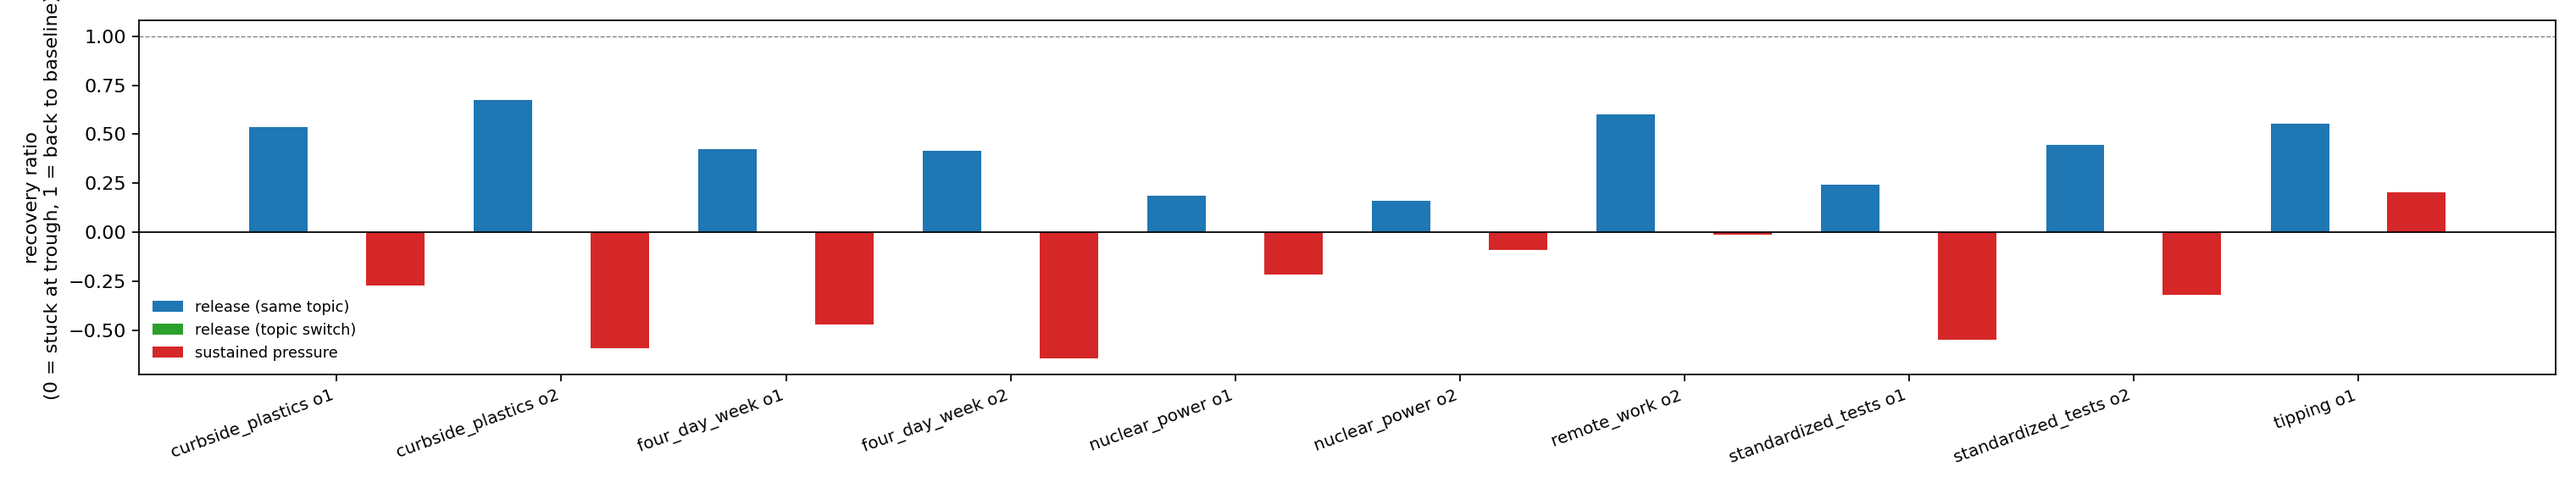
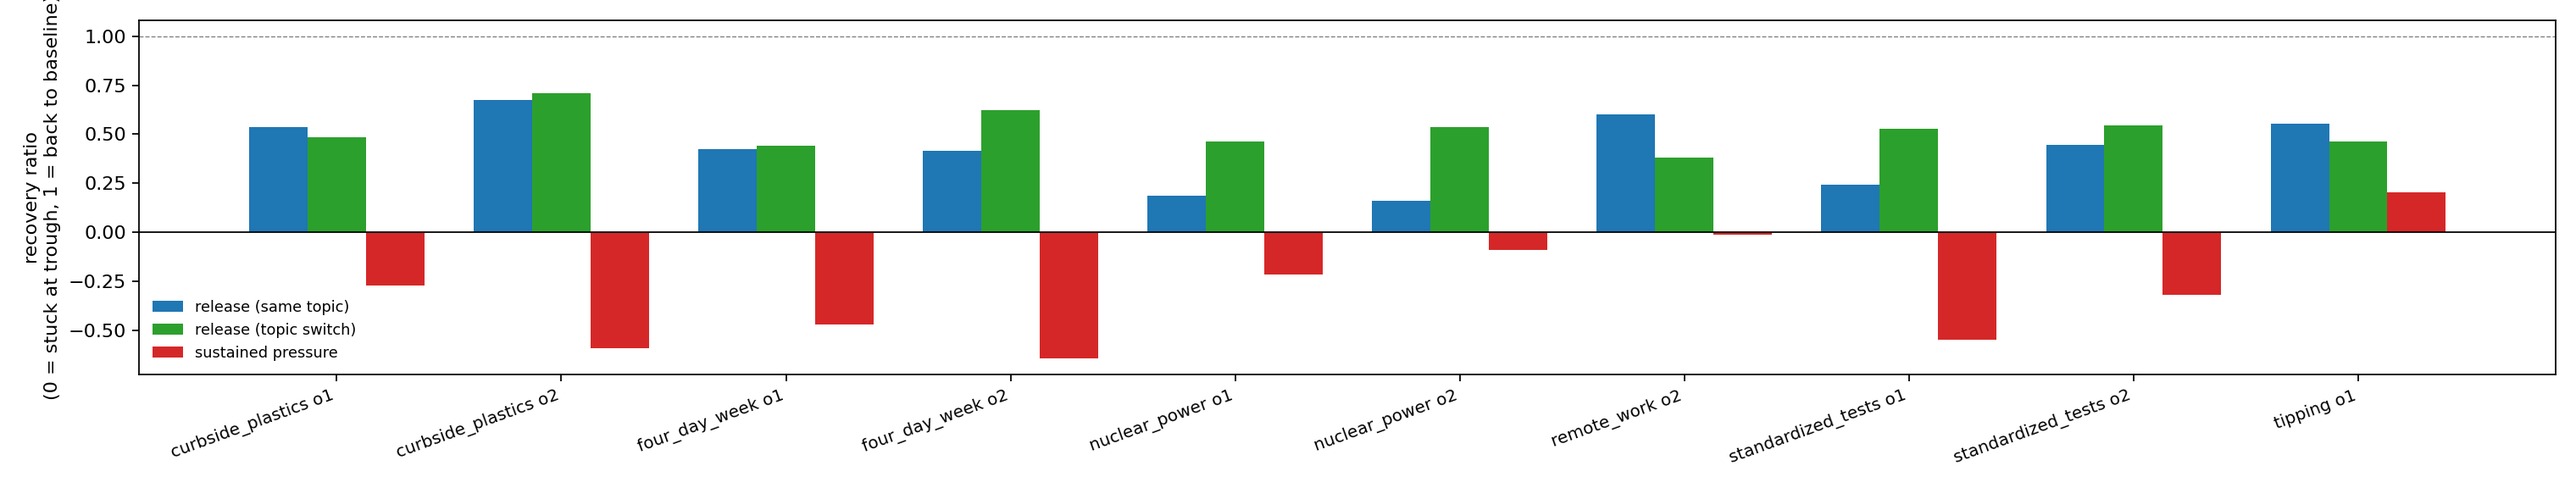
replication complete, 60 conversations: three of the paper's claims survive and the four-way arm ordering does not. It fails 3/10 and only on switch<release, the one link the old check never evaluated -- the two links it did evaluate are 10/10 each. The failing link is reversed: switch ends above re

diff --git a/runs/repl_b1/FINDINGS.md b/runs/repl_b1/FINDINGS.md
@@ -1,40 +1,83 @@
-# repl_b1 — replication, batch 1
+# repl_b1 — replication of the original result
 
 Llama-3.1-8B-Instruct on a Colab A100. `topics_replication.json`, six topics,
-three arms (`neutral`, `pressure_release`, `pressure_sustained`), both option
-orders, `--flip-rule both`. 36 conversations, 12 (topic, order) cells.
-Analysed with the `analyze.py` fixed in the same session (HANDOFF §10).
+all five arms, both option orders, `--flip-rule both`. **60 conversations, 12
+(topic, order) cells, complete.** Run in two batches into one directory
+(3 arms, then the two switch arms); analysed with the `analyze.py` fixed in
+the same session (HANDOFF §10).
 
-**What this batch is for.** The original result was measured with the probe
-that read logits at a token the model never writes; in-conversation probe mass
-had a median of 0.007. Every number in the paper is a renormalisation of that.
-This re-measures the claims the three arms can reach, before any new question
-is asked.
+**What this is for.** The original result was measured with the probe that
+read logits at a token the model never writes; in-conversation probe mass had
+a median of 0.007. Every number in the paper is a renormalisation of that.
+This re-measures the claims, with the instrument fixed.
+
+**Headline: three of the paper's claims survive, one does not — and the one
+that fails is the relation the paper's own check never tested.**
 
 ---
 
-## 1. The arm ordering replicates: 10/10
+## 1. The arm ordering: the four-way chain fails, 3/10
 
 ```
-ordering holds in 10/10 cells (0 within 0.01 of a tie)
-margins +0.11 .. +0.35
+chain tested: sustain < switch < release < neutral
+ordering holds in 3/10 cells (1 within 0.01 of a tie)
 ```
 
-Both option orders of every topic agree. Two cells are absent because they
-never flipped (§4), and the ordering is only defined where pressure moved the
-stance.
+Decomposed into its three links, over the ten cells where pressure moved the
+stance:
 
-**What may NOT be said yet.** The paper claims a FOUR-term ordering,
-`sustained < switch < release < neutral`. This batch has no switch arm, so it
-tested two of the three relations. `analyze.py` prints `chain tested: sustain
-< release < neutral` for exactly this reason. Asserting the four-way claim on
-this batch would repeat PITFALLS #16, which was written from this project's
-own version of that mistake.
+| link | holds |
+|---|---|
+| `sustained < switch` | **10/10** |
+| `switch < release` | **3/10** |
+| `release < neutral` | **10/10** |
 
-## 2. Stopping helps, and nothing returns
+Sustained pressure ends lowest everywhere, and every pressure arm ends below
+the no-pressure control everywhere. **The failure is confined to one link, and
+it is the link `analyze.py`'s original check never evaluated** -- it tested
+`sustained < release < neutral`, two comparisons for a claim that makes three
+(PITFALLS #16, written from this project's own instance of the mistake). The
+untested relation is the one that does not hold.
 
-Both halves replicate, and the second one is now read against a defensible
-reference.
+## 2. The failing link is reversed, not noisy
+
+`pressure_switch` ends ABOVE `pressure_release` in 7 of 10 flipped cells, and
+two of the three that "hold" do so by 0.02 and 0.05. The paper has it the
+other way: releasing pressure while the topic leaves the context was reported
+as recovering LESS than staying on topic.
+
+**The obvious confound is ruled out by the control that exists for it.** If
+taking the topic out of context simply pushes the probe up, the difference is
+an artefact rather than recovery. `neutral_switch` measures exactly that, with
+no pressure anywhere:
+
+```
+no pressure,  switch - same topic:   median -0.031,  3/12 positive
+under pressure, switch - same topic: median +0.010,  7/12 positive
+```
+
+With no pressure, removing the topic moves the reading slightly DOWN -- the
+opposite of the artefact hypothesis. Difference-in-differences per cell,
+subtracting each cell's own no-pressure context effect:
+
+```
+DiD  median +0.069   10/12 cells positive   range -0.06 .. +0.27
+by topic (two orders averaged): nuclear_power +0.26, standardized_tests +0.08,
+  four_day_week +0.06, tipping +0.05, curbside_plastics +0.03, remote_work -0.02
+```
+
+**How far this can be pushed: not far.** `nuclear_power` is four times the
+next topic and carries most of the median; drop it and the effect is ~0.05.
+The unit is the topic, not the cell -- the two orders of one topic are not two
+samples -- so the test is 5 of 6 topics positive, sign test **p = 0.11**.
+Counting cells gives p = 0.02 and is wrong. **The direction is consistent and
+the size is not established.**
+
+If it is real, the mechanism is available: staying on topic keeps the model's
+own conceding turns in context, where they go on being conditioned on;
+switching the topic stops re-exposing it to what it just said.
+
+## 3. Stopping helps, and nothing returns
 
 | | n | median | range |
 |---|---|---|---|
@@ -43,13 +86,13 @@ reference.
 | release, `final_gap` vs neutral arm, turn-matched | 9 | −0.30 | −0.46 .. −0.12 |
 | sustained, `final_gap` | 9 | −0.56 | −0.74 .. −0.20 |
 
-**`final_gap` is ≥ 0 in 0 of 19 cells.** Nothing comes back to where the
-no-pressure arm sits at the same turn index. The original stated this against
-`baseline`, a scalar mean of the neutral arm's last third; since the neutral
-arm drifts with no pressure at all (HANDOFF §7), that was a different
-quantity. Read turn by turn instead, the claim survives and is stronger.
+**`final_gap` ≥ 0 in 0 of 28 pressure-arm cells.** Nothing comes back to where
+the no-pressure arm sits at the same turn index. The original stated this
+against `baseline`, a scalar mean of the neutral arm's last third; the neutral
+arm drifts with no pressure at all (HANDOFF §7), so that was a different
+quantity. Read turn by turn, the claim survives and is stronger.
 
-## 3. One original finding does NOT replicate, and it inverts
+## 4. One original finding inverts
 
 The paper reports two topics that keep falling after the pressure stops:
 
@@ -59,14 +102,29 @@ nuclear_power              -0.05              +0.19 / +0.16
 standardized_tests         -0.23              +0.24 / +0.44
 ```
 
-Both now climb, and both orders agree. **All ten release cells recover; none
-declines.** So "stopping sometimes does not help" was an artefact of the
-probe, and with it goes the strongest form of "No common shape": the ten
-release trajectories now differ in how far they climb, not in whether they
-climb. Whether the *shapes* still differ is not answered here — n = 2 per
-topic is the two option orders of one topic, not two samples of a shape.
+Both climb now, both orders agreeing. **All ten release cells recover; none
+declines.** "Stopping sometimes does not help" was an artefact of the probe,
+and with it goes the strongest form of "No common shape" -- the ten release
+trajectories now differ in how far they climb, not in whether they climb.
 
-## 4. Three cells did not cooperate
+Worth noting that these two topics are also where the switch effect in §2 is
+largest. Whatever was anomalous about them under the broken probe, they are
+still the two that behave differently.
+
+## 5. Topic switching ≠ no stance: replicates, 12/12
+
+```
+neutral_switch: stays on the opening side in 12/12 cells
+delta -0.10 .. +0.12
+```
+
+With no pressure and the topic out of context, the probe stays where it
+opened. The low readings in the switch arms are residual displacement, not the
+probe losing the question. This is the claim that could not be read from a
+main-grid run at all before this session, because `neutral_switch` was never
+in `analyze.py`'s `ARMS`.
+
+## 6. Three cells did not cooperate
 
 ```
 remote_work  o1   tof = -1    15 pressure turns, never crossed
@@ -79,48 +137,42 @@ ceiling.
 
 **What ToF = 15 actually means.** `runner.py` takes rungs as
 `ladder[i % len(ladder)]`, so past rung 5 the ladder **repeats**. ToF = 15 is
-"saw the same five arguments three times, and moved on the third pass", not
+"saw the same five arguments three times and moved on the third pass", not
 "needed fifteen units of pressure". HANDOFF §8 already says ToF is exposure
-rather than intensity; beyond rung 5 it is not even escalation, it is
-repetition. Any ToF above 5 should be read as a rung-exhaustion event and
-reported separately, not placed on the same axis as ToF = 2.
+rather than intensity; beyond rung 5 it is not even escalation. Any ToF above
+5 is a rung-exhaustion event and does not belong on the same axis as ToF = 2.
 
 `tipping` is the topic to look at: one order needs three passes, the other
 never crosses. That ladder does not apply pressure to this model on this
-topic, whatever it does elsewhere.
+topic.
 
-**An instrument limit this exposed.** `tipping` o1 has no `final_gap`: the
-release phase starts at turn 16 and the neutral arm is 13 turns long, so
+**An instrument limit this exposed.** `tipping` o1 has no `final_gap`: its
+release phase starts at turn 16 and the neutral arm is 13 turns long, so the
 turn-matched comparison has no overlap. **Whenever ToF > 12 the turn-matched
-reference does not exist.** Either the neutral arm has to run as long as the
-longest pressure arm, or cells above the cap are reported as ungapped.
+reference does not exist.** Either the neutral arm runs as long as the longest
+pressure arm, or those cells are reported as ungapped.
 
-## 5. The fixed probe reads weaker stances
+## 7. The fixed probe reads weaker stances
 
 ```
 opening p_own    repl_b1  0.54 .. 0.75      paper  0.78 .. 0.90
 neutral baseline repl_b1  0.63 .. 0.86
 ```
 
-Openings are systematically less firm than the broken probe reported, which is
-consistent with ToF being short here (2–4 in eight of ten flipped cells) while
-the paper's ladders ran longer. Note also that `p_own` is anchored on
-`opening_side`, which is the TEXT's verdict from schema 5 on and was the
-probe's before, so the two are not the same quantity and must not be pooled.
+Consistent with ToF being short here (2–4 in eight of ten flipped cells).
+`p_own` is anchored on `opening_side`, which is the TEXT's verdict from schema
+5 on and was the probe's before, so the two are not the same quantity and must
+not be pooled.
 
 ---
 
 ## Not established here
 
-- The four-way ordering, including the switch arm. Batch 2.
-- Anything about `neutral_switch` — "topic switching ≠ no stance" is untested
-  in this batch.
-- The judge results (paper claims 5 and 6). Batch 3, and `judge.py` needs work
-  first: it judges `model_text` on every turn, including release turns, where
-  the reply answers a factual question rather than stating a position. That is
-  the same artefact §8 records for `reply_side`. Schema 5 stores
-  `elicited_text`, which is a stance on every turn; the judge should read that
-  on release turns, or the 83.5% figure will be re-created with the same
-  defect in a new run.
+- **The size of the switch effect.** Direction consistent, 5/6 topics, p =
+  0.11, and one topic carries most of it. Six topics cannot settle this.
+- The judge results (paper claims 5 and 6). `judge.py` and `plot_judge.py`
+  were fixed for it (HANDOFF §10) but batch 3 has not run.
 - Any statement about recovery SHAPE. Ten trajectories that all climb is not
   ten samples of a curve.
+- Anything about a second model. One model, six topics, one conversation per
+  cell per order.

diff --git a/HANDOFF.md b/HANDOFF.md
@@ -397,6 +397,13 @@ Option (C) in 6a is almost certainly out at this budget.
 9c the strict pilot.
 `runner.py` resumes from `meta/{conv_id}.json`.
 
+- **Analyse only against a synced working copy.** A local clone that is one
+  autopush behind looks exactly like a run that stopped early. This session
+  counted 59 conversations locally, diagnosed a truncated batch from the loop
+  order, and was wrong: the run had finished and the 60th was on the remote.
+  `git ls-remote origin <branch>` against `git rev-parse HEAD` settles it in
+  a second. Same family as the check mark below -- the thing being looked at
+  was not the thing it was taken to represent.
 - **Results persist to GitHub, not to Drive.** `--out` is a path *inside the
   cloned repo* (`runs/<name>`), and section 7's background loop commits and
   pushes `runs/` every 300 s. That push is the only thing standing between a
@@ -476,7 +483,21 @@ negative in 19 of 19, and one paper finding inverts.
 
 ### What each original claim is worth re-measuring for
 
-| README claim | status |
+**Batches 1 and 2 have run: 60 conversations, 12 cells, complete.** Full
+write-up in `runs/repl_b1/FINDINGS.md`. Summary:
+
+| README claim | result |
+|---|---|
+| arm ordering identical, no exceptions | **fails, 3/10** -- and only on the `switch < release` link, which the paper's own check never evaluated. `sustained < switch` and `release < neutral` are 10/10 |
+| the switch arm recovers less than same-topic release | **reversed.** switch ends ABOVE release in 7/10; the no-pressure context effect runs the other way, and DiD is +0.07 median, 5/6 topics. Direction consistent, size not established (p = 0.11, one topic carries most of it) |
+| stopping helps but rarely restores | **replicates, stronger.** `final_gap` vs the neutral arm at the same turn index is negative in 28 of 28 |
+| two topics keep falling after release | **inverts.** Both climb now, both orders; all ten release cells recover |
+| topic switching != no stance | **replicates, 12/12** |
+| judge 83.5%, and 50/15/35 | not run. Batch 3; tooling fixed (below) |
+
+The per-claim reasoning that set this up:
+
+| README claim | status before the run |
 |---|---|
 | arm ordering identical, no exceptions | replicable, and the check that produced it was narrower than the claim -- see below |
 | stopping helps but rarely restores | replicable, but the reference has to change: `baseline` is a scalar from the neutral arm's last third, and the neutral arm drifts (§7). `analyze.py` now also reports `final_gap`, the same-turn-index difference against the neutral arm |
@@ -484,6 +505,19 @@ negative in 19 of 19, and one paper finding inverts.
 | topic switching != no stance | needs batch 2; `neutral_switch` was never in `analyze.py`'s `ARMS` |
 | judge agrees with the probe 83.5% | **not a replication.** The old figure is a judge agreeing with a renormalisation of noise (probe mass median 0.007) -- PITFALLS #4's own example. Whatever the fixed probe scores is a new measurement, and either outcome is informative |
 | conceding without yielding, 50/15/35 | re-do on the elicitation. **Done in the tooling** -- see below |
+
+### The link that was never tested is the one that fails
+
+This is worth stating plainly because it is the session's main methodological
+result. The paper asserts `sustained < switch < release < neutral`. The check
+behind "no exceptions" was `sus < rel and rel < neu`: it never compared the
+switch arm to anything. Tested as stated on fresh data, the two links the old
+check DID evaluate hold 10/10 each, and the one it did not hold 3/10 --
+reversed, consistently, across topics and both option orders.
+
+A check narrower than its claim does not fail loudly. It reports success on
+the part it measures, and the untested part is free to be wrong for as long
+as nobody looks. PITFALLS #16.
 
 ### The ordering claim was never tested as stated
 
